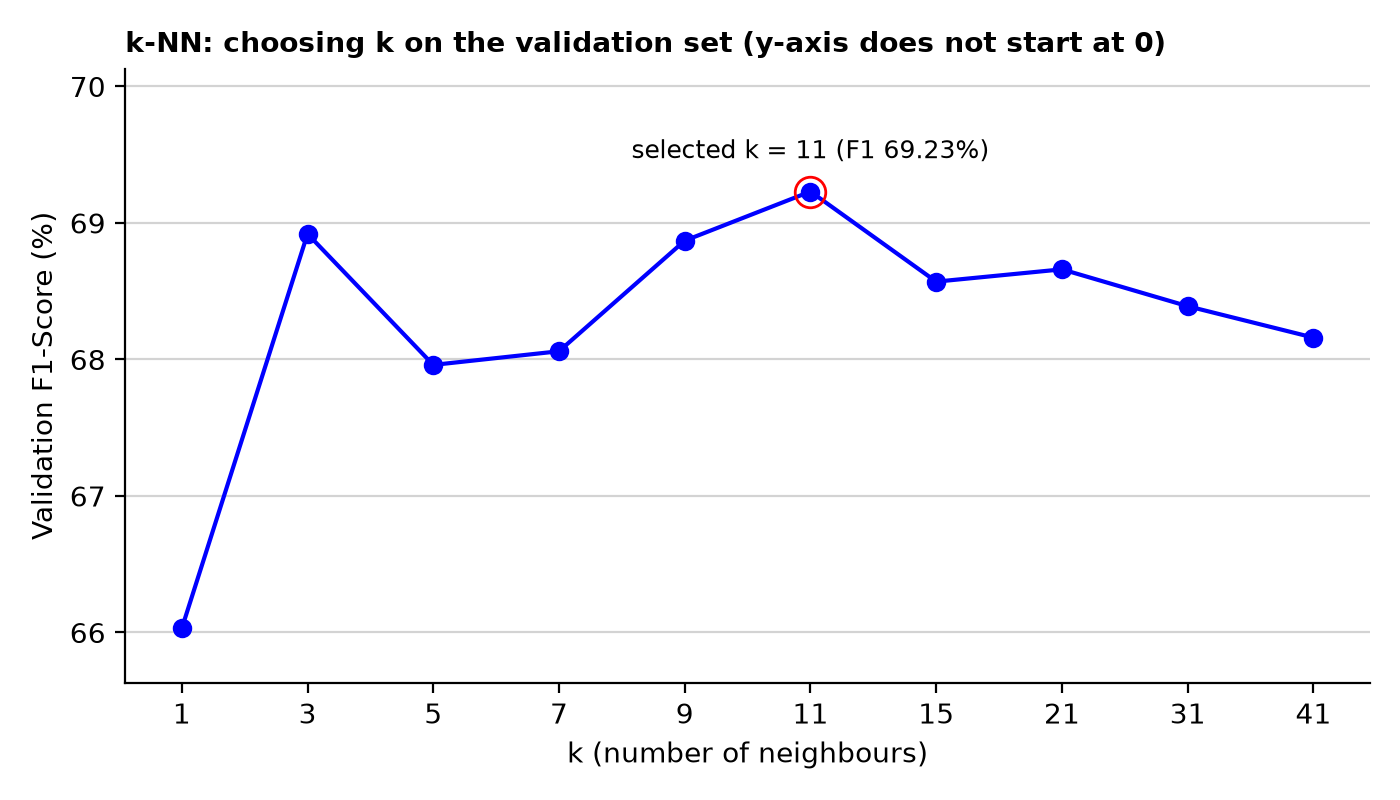
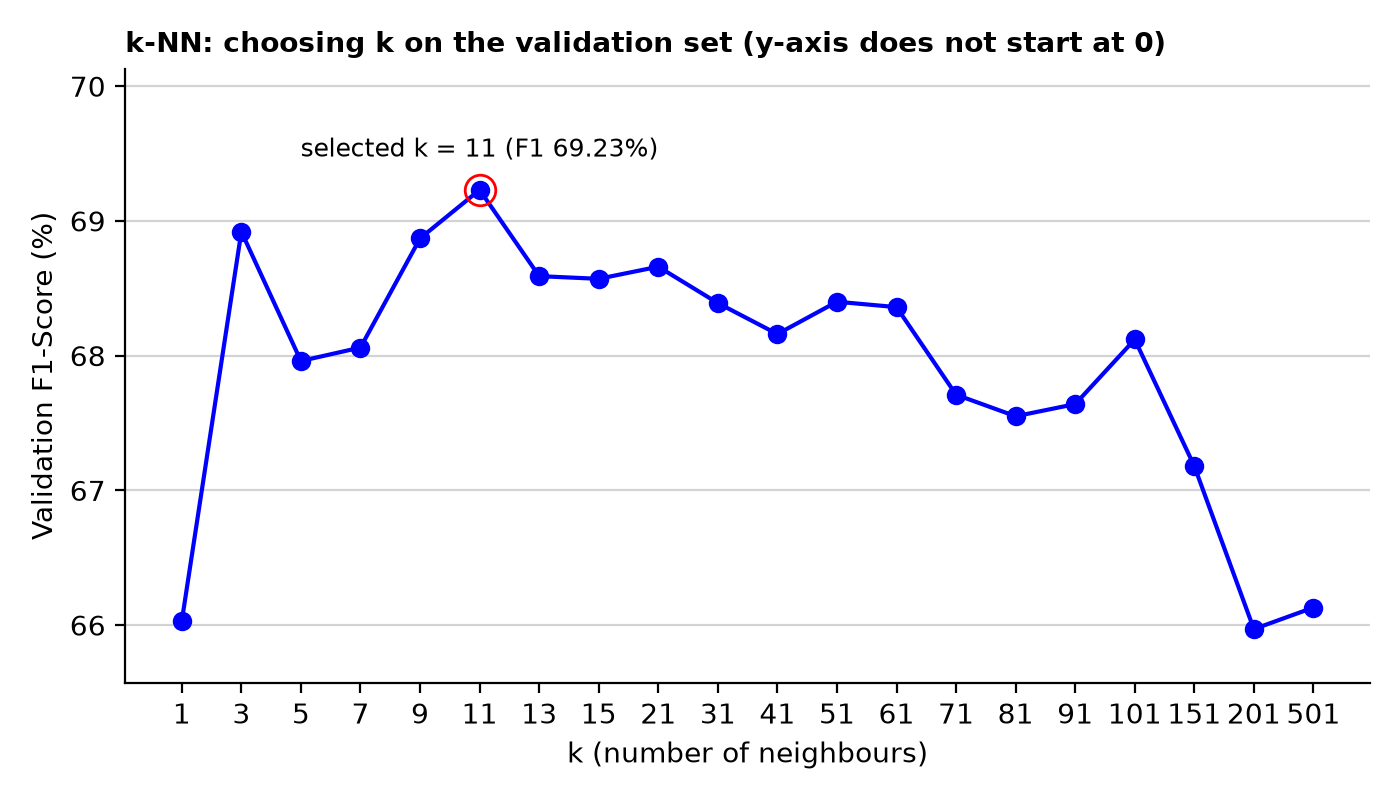
added references and more Ks for tuning in KNN

diff --git a/index.html b/index.html
@@ -367,7 +367,7 @@
     <section id="setup">
       <h2>4. Experimental Setup and Evaluation Metrics</h2>
       <p>
-        <strong>Data Splits &amp; Tuning Protocol:</strong> We preserved the dataset's predefined split (10,000 train / 4,232 validation / 4,232 test). All feature statistics and model parameters were learned strictly on the training set. The validation set was used to select hyperparameters (specifically tuning odd values <em>k</em> &isin; {1, 3, 5, 7, 9, 11, 15, 21, 31, 41} for k-NN to avoid tied votes), leaving the test set completely untouched until final evaluation.
+        <strong>Data Splits &amp; Tuning Protocol:</strong> We preserved the dataset's predefined split (10,000 train / 4,232 validation / 4,232 test). All feature statistics and model parameters were learned strictly on the training set. The validation set was used to select hyperparameters (specifically tuning odd values <em>k</em> &isin; {1, 3, 5, 7, 9, 11, 13, 15, 21, 31, 41, 51, 61, 71, 81, 91, 101, 151, 201, 501} for k-NN to avoid tied votes), leaving the test set completely untouched until final evaluation.
       </p>
       <p>
         <strong>Custom Evaluation Metrics:</strong> Treating <strong>Hate (1)</strong> as the positive class, we implemented our own confusion matrix and metric routines:
@@ -495,38 +495,60 @@
       </table>
 
       <h3>Table 4: k-NN Hyperparameter Tuning (Validation F1-Score)</h3>
-      <table>
-        <thead>
-          <tr>
-            <th>k</th>
-            <th>1</th>
-            <th>3</th>
-            <th>5</th>
-            <th>7</th>
-            <th>9</th>
-            <th style="background-color: #2b6cb0;">11</th>
-            <th>15</th>
-            <th>21</th>
-            <th>31</th>
-            <th>41</th>
-          </tr>
-        </thead>
-        <tbody>
-          <tr>
-            <td><strong>Validation F1 (%)</strong></td>
-            <td>66.03</td>
-            <td>68.92</td>
-            <td>67.96</td>
-            <td>68.06</td>
-            <td>68.87</td>
-            <td class="highlight-cell">69.23</td>
-            <td>68.57</td>
-            <td>68.66</td>
-            <td>68.39</td>
-            <td>68.16</td>
-          </tr>
-        </tbody>
-      </table>
+      <div style="overflow-x: auto;">
+        <table>
+          <thead>
+            <tr>
+              <th>k</th>
+              <th>1</th>
+              <th>3</th>
+              <th>5</th>
+              <th>7</th>
+              <th>9</th>
+              <th style="background-color: #2b6cb0;">11</th>
+              <th>13</th>
+              <th>15</th>
+              <th>21</th>
+              <th>31</th>
+              <th>41</th>
+              <th>51</th>
+              <th>61</th>
+              <th>71</th>
+              <th>81</th>
+              <th>91</th>
+              <th>101</th>
+              <th>151</th>
+              <th>201</th>
+              <th>501</th>
+            </tr>
+          </thead>
+          <tbody>
+            <tr>
+              <td><strong>Validation F1 (%)</strong></td>
+              <td>66.03</td>
+              <td>68.92</td>
+              <td>67.96</td>
+              <td>68.06</td>
+              <td>68.87</td>
+              <td class="highlight-cell">69.23</td>
+              <td>68.59</td>
+              <td>68.57</td>
+              <td>68.66</td>
+              <td>68.39</td>
+              <td>68.16</td>
+              <td>68.40</td>
+              <td>68.36</td>
+              <td>67.71</td>
+              <td>67.55</td>
+              <td>67.64</td>
+              <td>68.12</td>
+              <td>67.18</td>
+              <td>65.97</td>
+              <td>66.13</td>
+            </tr>
+          </tbody>
+        </table>
+      </div>
 
       <div class="figure-grid">
         <figure>
@@ -569,3 +591,13 @@
     <section id="references">
       <h2>8. References &amp; Disclosures</h2>
       <ul>
+        <li>Cabasag, N. V., Chan, V. R., Lim, S. C., Gonzales, M. E., &amp; Cheng, C. (2019). Hate speech in Philippine election-related tweets. <em>Philippine Computing Journal</em>, XIV(1).</li>
+        <li>Cruz, J. C. B., &amp; Cheng, C. (2020). Establishing baselines for text classification in low-resource languages. <em>arXiv:2005.02068</em>.</li>
+        <li>CMSC 170 Laboratory Modules: Lab 04 (Naïve Bayes), Lab 06 (Nearest-Neighbor Model), and Lab 08 (Perceptron).</li>
+      </ul>
+    </section>
+
+  </main>
+
+</body>
+</html>

diff --git a/methods/knn.py b/methods/knn.py
@@ -4,7 +4,7 @@ import heapq
 from collections import Counter
 from preprocess import prepare_data, prepare_tfidf, confusion_matrix, print_metrics
 
-K_CANDIDATES = [1, 3, 5, 7, 9, 11, 15, 21, 31, 41]
+K_CANDIDATES = [1, 3, 5, 7, 9, 11, 13, 15, 21, 31, 41, 51, 61, 71, 81, 91, 101, 151, 201, 501]
 
 
 def build_index(train_vectors):
